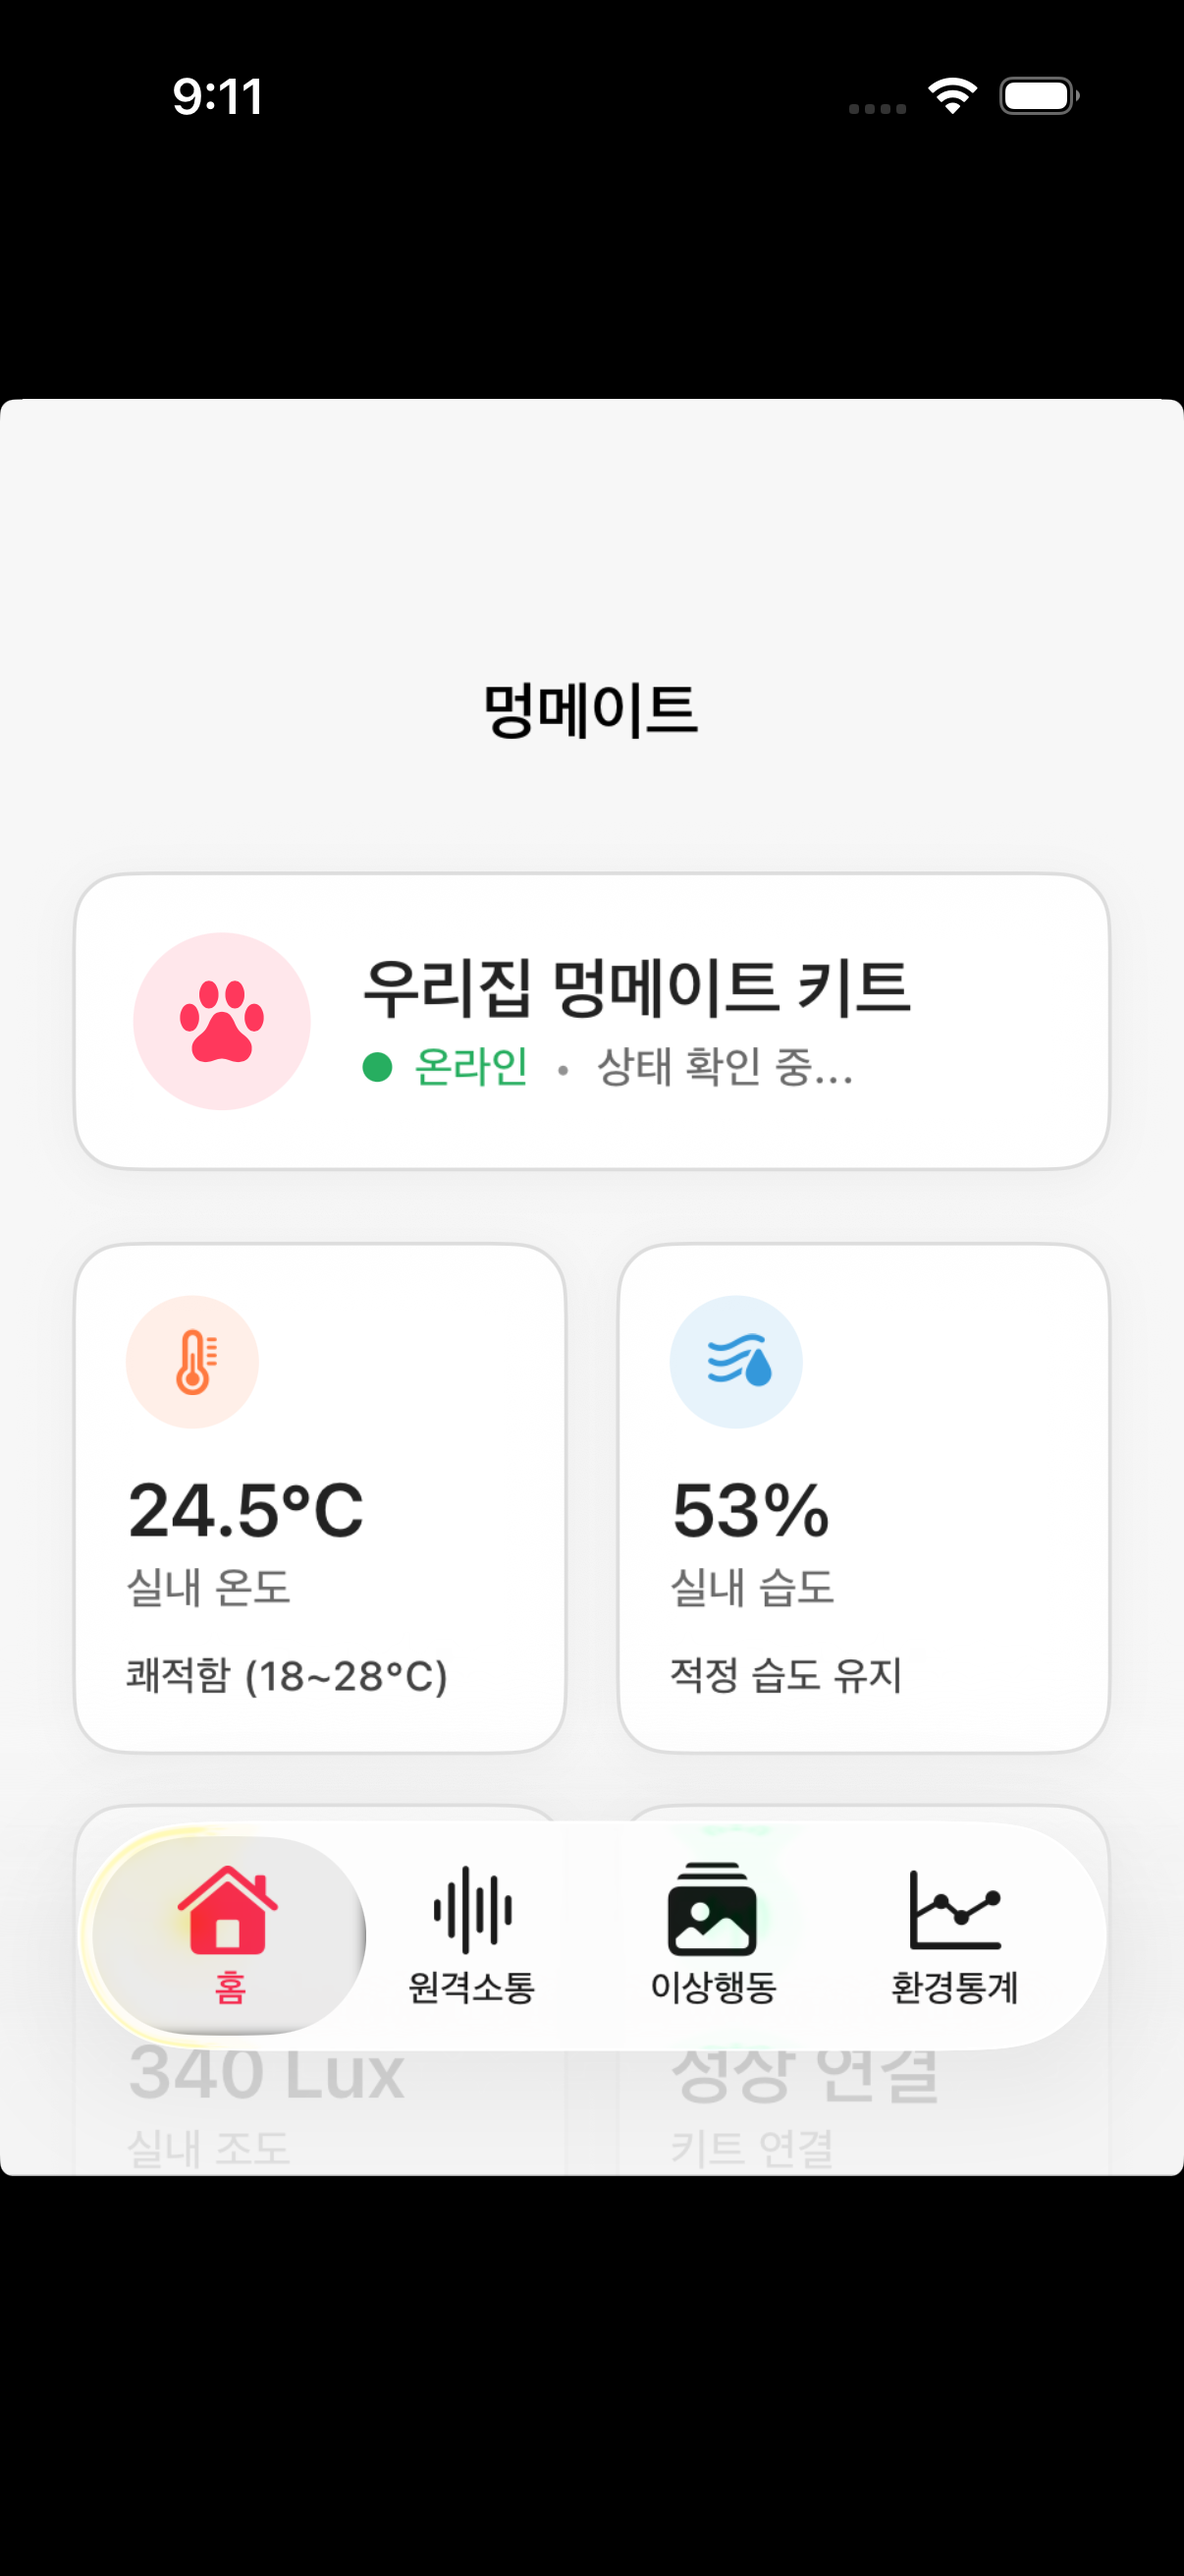
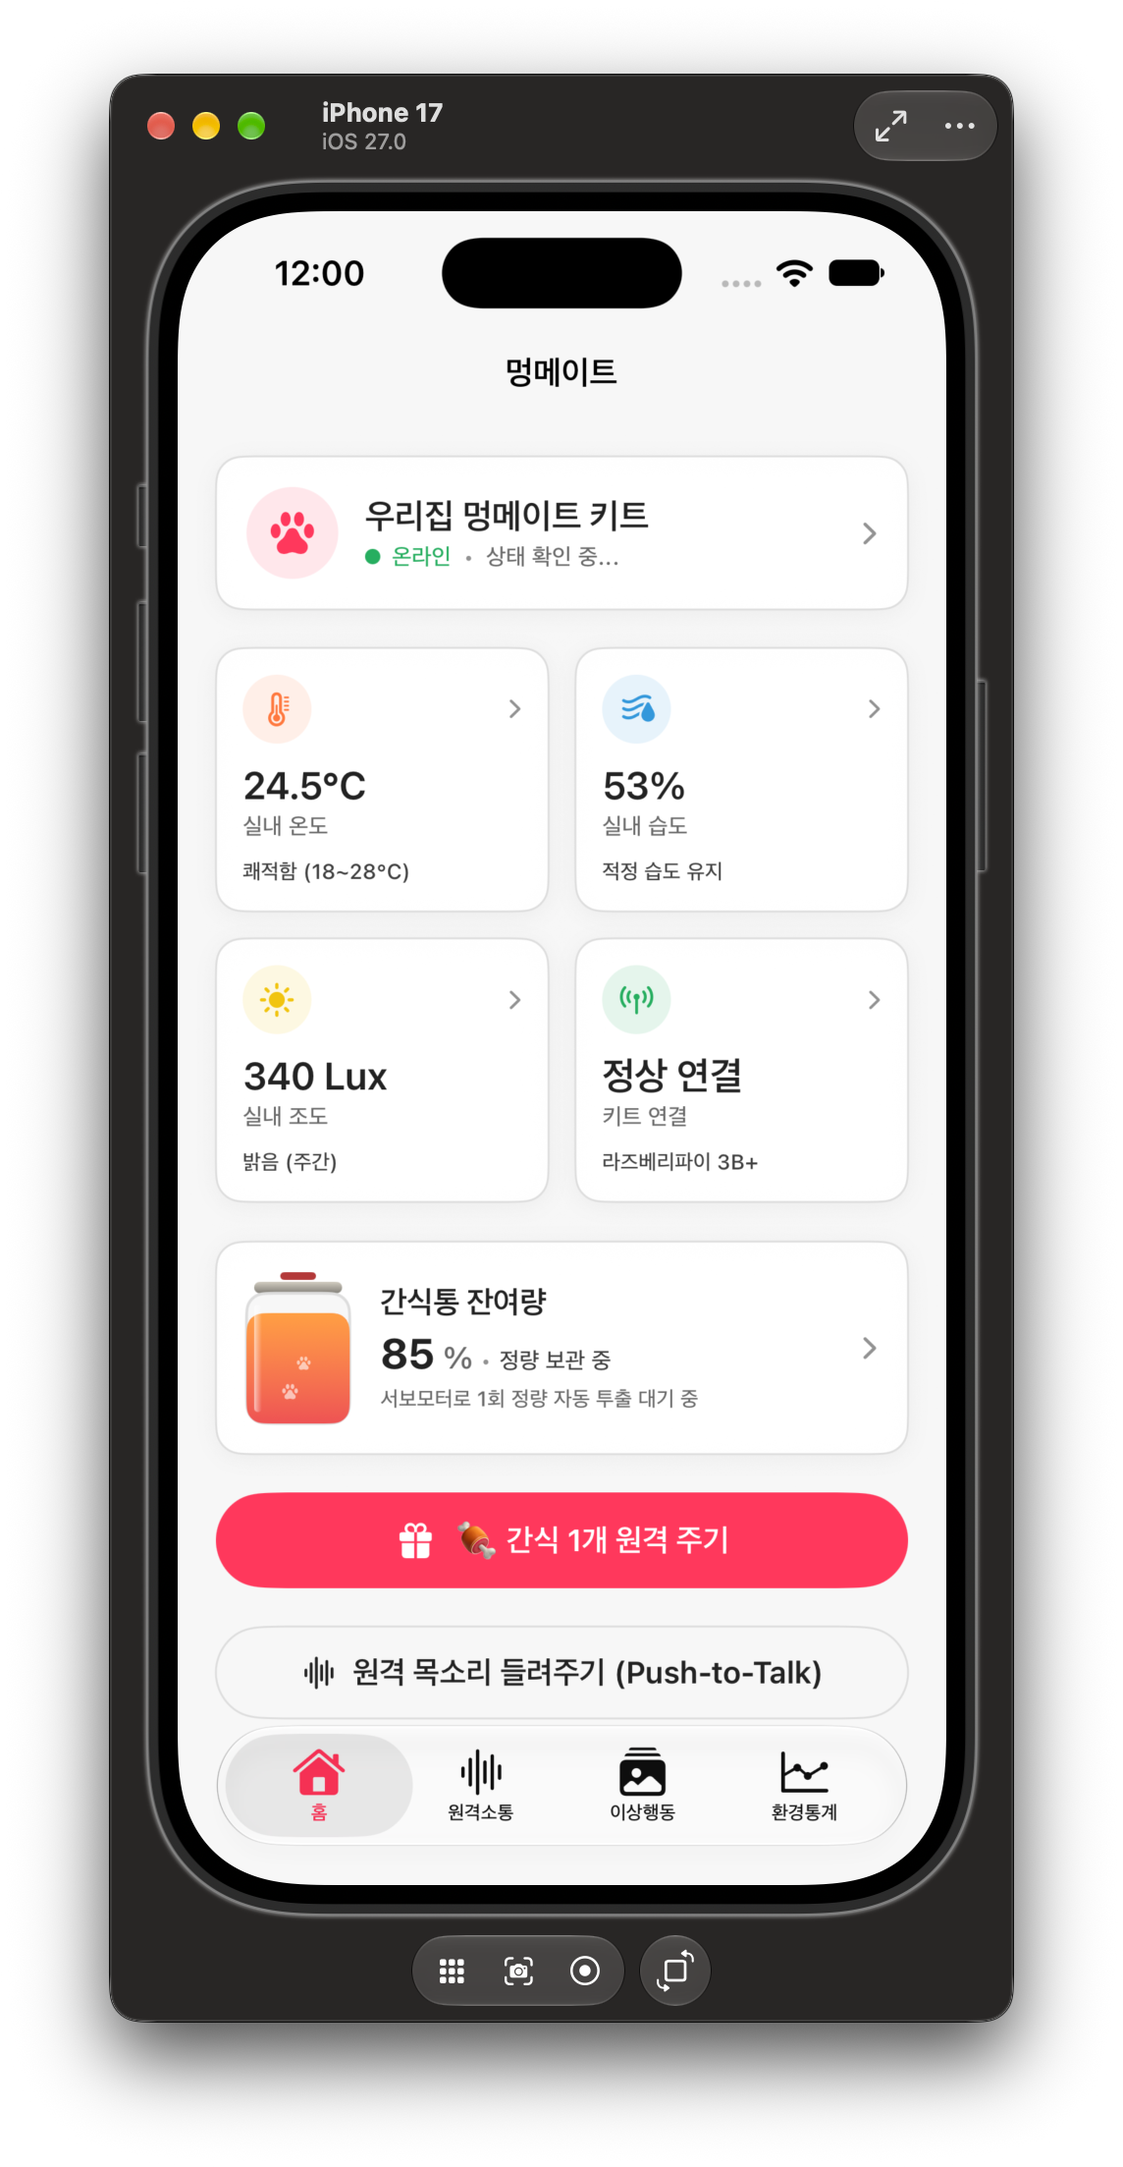
feat: integrate user iPhone 17 dogmate screenshot, optimize frame containment to eliminate clipping, and add deep linking

diff --git a/css/style.css b/css/style.css
@@ -568,7 +568,7 @@ button {
 
 .preview-frame {
   position: relative;
-  height: 190px;
+  height: 210px;
   background-color: #f8fafc;
   display: flex;
   align-items: center;
@@ -579,8 +579,9 @@ button {
 .preview-frame img {
   width: 100%;
   height: 100%;
-  object-fit: cover;
-  object-position: top center;
+  object-fit: contain;
+  object-position: center;
+  padding: 6px 8px 24px 8px;
   transition: transform 0.25s ease;
 }
 
@@ -1061,10 +1062,12 @@ button {
 
 .gallery-img {
   width: 100%;
-  height: 220px;
-  object-fit: cover;
-  object-position: top center;
+  height: 380px;
+  object-fit: contain;
+  object-position: center;
   display: block;
+  background-color: #f8fafc;
+  padding: 8px;
 }
 
 .modal-section-title {
@@ -1272,7 +1275,7 @@ button {
     padding: 1.25rem;
   }
   .preview-frame {
-    height: 160px;
+    height: 210px;
   }
 
   /* Skills Grid 1-2 Columns */
@@ -1306,7 +1309,7 @@ button {
     grid-template-columns: 1fr;
   }
   .gallery-img {
-    height: 180px;
+    height: 340px;
   }
 
   /* Footer */

diff --git a/js/app.js b/js/app.js
@@ -369,6 +369,13 @@ document.addEventListener("DOMContentLoaded", () => {
   renderProjects("all");
   renderSkills();
   initEventListeners();
+
+  // Deep linking support (?project=dogmate or #project-dogmate)
+  const urlParams = new URLSearchParams(window.location.search);
+  const directId = urlParams.get("project") || (window.location.hash.startsWith("#project-") ? window.location.hash.replace("#project-", "") : null);
+  if (directId) {
+    setTimeout(() => openProjectModal(directId), 150);
+  }
 });
 
 // Render Projects Grid
